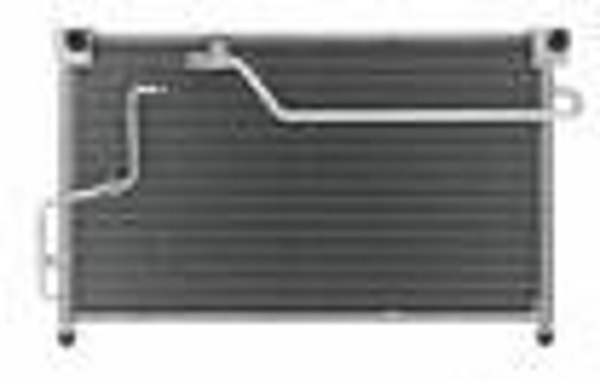
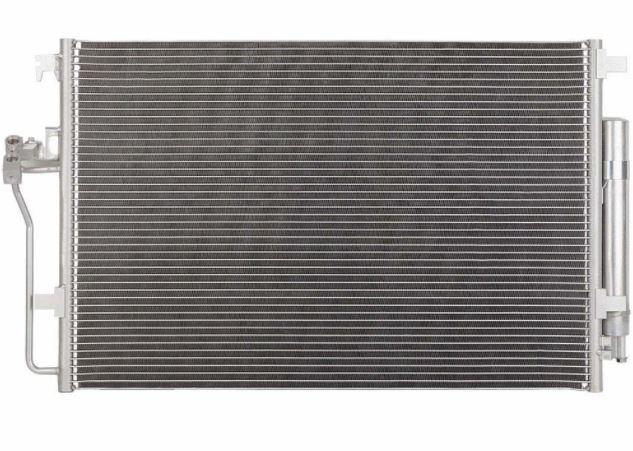
added new images

diff --git a/autoparts.html b/autoparts.html
@@ -63,6 +63,35 @@
           <div class="product-item-title d-flex">
             <div class="bg-faded p-5 d-flex ml-auto rounded">
               <h2 class="section-heading mb-0">
+                <span class="section-heading-lower">Radiators</span>
+              </h2>
+            </div>
+          </div>
+          <img class="product-item-img mx-auto d-flex rounded img-fluid mb-3 mb-lg-0" src="img/radiator.jpg" alt="">
+          <div class="product-item-description d-flex mr-auto">
+            <div class="bg-faded p-5 rounded">
+              <p class="mb-0">
+                <ul class="product-item-list">
+                  <li><strong>Brands</strong></li>
+                  <li>Performance</li>
+                  <li>Koyo</li>
+                  <li><strong>Available warranties</strong></li>
+                  <li>Limited Lifetime Warranty</li>
+                  <li>1 Year Limited Warranty</li>
+                </ul>
+              </p>
+            </div>
+          </div>
+        </div>
+      </div>
+    </section>
+
+    <section class="page-section">
+      <div class="container">
+        <div class="product-item">
+          <div class="product-item-title d-flex">
+            <div class="bg-faded p-5 d-flex ml-auto rounded">
+              <h2 class="section-heading mb-0">
                 <span class="section-heading-lower">A/C Compressors</span>
               </h2>
             </div>
@@ -75,7 +104,6 @@
                   <li><strong>Brands</strong></li>
                   <li>Evap Inc.</li>
                   <li>Ready Aire</li>
-                  <li>Visteon </li>
                   <li><strong>Available warranties</strong></li>
                   <li>90 Day Limited Warranty</li>
                   <li>1 Year Limited Warranty</li>
@@ -103,7 +131,7 @@
               <p class="mb-0">
                 <ul class="product-item-list">
                   <li><strong>Brands</strong></li>
-                  <li>Visteon</li>
+                  <li>Vistion</li>
                   <li><strong>Available warranties</strong></li>
                   <li>Lifetime Warranty with 24 Month Road Service</li>
                 </ul>
@@ -130,7 +158,6 @@
               <p class="mb-0">
                 <ul class="product-item-list">
                   <li><strong>Brands</strong></li>
-                  <li>Silla</li>
                   <li>Vista-Pro</li>
                   <li>Performance</li>
                   <li><strong>Available warranties</strong></li>

diff --git a/services.html b/services.html
@@ -120,7 +120,7 @@
                   </h2>
                 </div>
               </div>
-              <img class="product-item-img mx-auto d-flex rounded img-fluid mb-3 mb-lg-0" src="img/testtank.jpg" alt="">
+              <img class="product-item-img mx-auto d-flex rounded img-fluid mb-3 mb-lg-0" src="img/radiatorservice.jpg" alt="">
               <div class="product-item-description d-flex ml-auto">
                 <div class="bg-faded p-5 rounded">
                   <p class="mb-0">

diff --git a/README.md b/README.md
@@ -1,62 +1,1 @@
-# [Start Bootstrap - Business Casual](https://startbootstrap.com/template-overviews/business-casual/)
-
-[Business Casual](http://startbootstrap.com/template-overviews/business-casual/) is a multipurpose website theme for [Bootstrap](http://getbootstrap.com/) created by [Start Bootstrap](http://startbootstrap.com/). This theme features a landing page, about page, blog page, and a contact page along with various custom styles and components.
-
-## Preview
-
-[![Business Casual Preview](https://startbootstrap.com/assets/img/templates/business-casual.jpg)](https://blackrockdigital.github.io/startbootstrap-business-casual/)
-
-**[View Live Preview](https://blackrockdigital.github.io/startbootstrap-business-casual/)**
-
-## Status
-
-[![GitHub license](https://img.shields.io/badge/license-MIT-blue.svg)](https://raw.githubusercontent.com/BlackrockDigital/startbootstrap-business-casual/master/LICENSE)
-[![npm version](https://img.shields.io/npm/v/startbootstrap-business-casual.svg)](https://www.npmjs.com/package/startbootstrap-business-casual)
-[![Build Status](https://travis-ci.org/BlackrockDigital/startbootstrap-business-casual.svg?branch=master)](https://travis-ci.org/BlackrockDigital/startbootstrap-business-casual)
-[![dependencies Status](https://david-dm.org/BlackrockDigital/startbootstrap-business-casual/status.svg)](https://david-dm.org/BlackrockDigital/startbootstrap-business-casual)
-[![devDependencies Status](https://david-dm.org/BlackrockDigital/startbootstrap-business-casual/dev-status.svg)](https://david-dm.org/BlackrockDigital/startbootstrap-business-casual?type=dev)
-
-## Download and Installation
-
-To begin using this template, choose one of the following options to get started:
-* [Download the latest release on Start Bootstrap](https://startbootstrap.com/template-overviews/business-casual/)
-* Install via npm: `npm i startbootstrap-business-casual`
-* Clone the repo: `git clone https://github.com/BlackrockDigital/startbootstrap-business-casual.git`
-* [Fork, Clone, or Download on GitHub](https://github.com/BlackrockDigital/startbootstrap-business-casual)
-
-## Usage
-
-### Basic Usage
-
-After downloading, simply edit the HTML and CSS files included with the template in your favorite text editor to make changes. These are the only files you need to worry about, you can ignore everything else! To preview the changes you make to the code, you can open the `index.html` file in your web browser.
-
-### Advanced Usage
-
-After installation, run `npm install` and then run `gulp dev` which will open up a preview of the template in your default browser, watch for changes to core template files, and live reload the browser when changes are saved. You can view the `gulpfile.js` to see which tasks are included with the dev environment.
-
-## Bugs and Issues
-
-Have a bug or an issue with this template? [Open a new issue](https://github.com/BlackrockDigital/startbootstrap-business-casual/issues) here on GitHub or leave a comment on the [template overview page at Start Bootstrap](http://startbootstrap.com/template-overviews/business-casual/).
-
-## Custom Builds
-
-You can hire Start Bootstrap to create a custom build of any template, or create something from scratch using Bootstrap. For more information, visit the **[custom design services page](https://startbootstrap.com/bootstrap-design-services/)**.
-
-## About
-
-Start Bootstrap is an open source library of free Bootstrap templates and themes. All of the free templates and themes on Start Bootstrap are released under the MIT license, which means you can use them for any purpose, even for commercial projects.
-
-* https://startbootstrap.com
-* https://twitter.com/SBootstrap
-
-Start Bootstrap was created by and is maintained by **[David Miller](http://davidmiller.io/)**, Owner of [Blackrock Digital](http://blackrockdigital.io/).
-
-* http://davidmiller.io
-* https://twitter.com/davidmillerskt
-* https://github.com/davidtmiller
-
-Start Bootstrap is based on the [Bootstrap](http://getbootstrap.com/) framework created by [Mark Otto](https://twitter.com/mdo) and [Jacob Thorton](https://twitter.com/fat).
-
-## Copyright and License
-
-Copyright 2013-2017 Blackrock Digital LLC. Code released under the [MIT](https://github.com/BlackrockDigital/startbootstrap-business-casual/blob/gh-pages/LICENSE) license.
+# Radiator Direct
